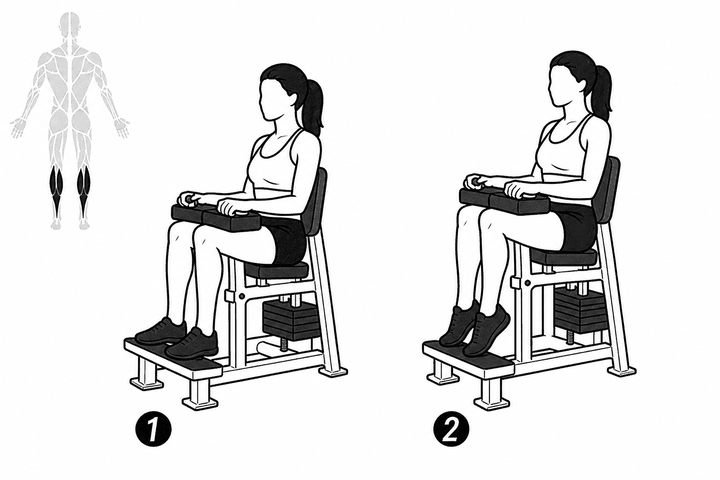
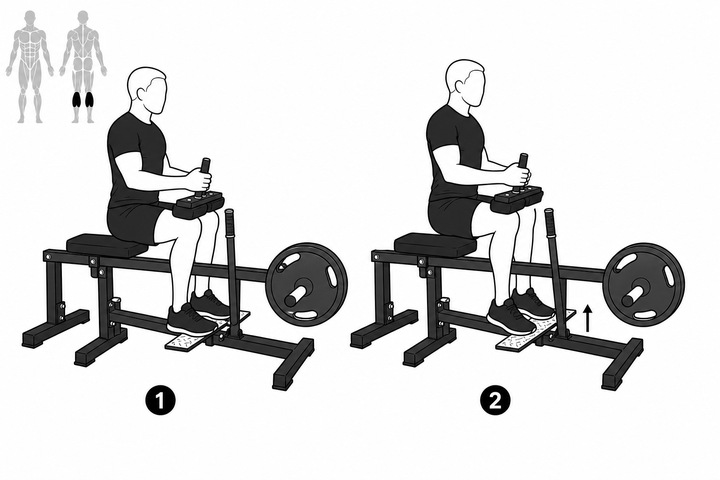
Mollets assis et presse refaits d'après les vraies machines de la salle ; nouveau squat avant, bras croisés

Changed region(s): [[0.0, 0.0, 0.9778, 0.9375]]

diff --git a/src/data/salle.ts b/src/data/salle.ts
@@ -90,6 +90,33 @@ export const EXERCICES_SALLE: Exercice[] = [
     ],
   },
   {
+    id: 'front-squat',
+    nomFr: 'Squat avant, bras croisés',
+    nomEn: 'Front Squat',
+    zone: 'bas',
+    groupe: 'quadriceps',
+    muscles: 'Quadriceps, fessiers, gainage, haut du dos',
+    musclesPrincipaux: ['quadriceps', 'fessiers'],
+    musclesSecondaires: ['abdominaux', 'lombaires'],
+    materiel: 'salle',
+    pattern: 'squat',
+    niveauMin: 2,
+    cotes: 'bilateral',
+    unite: 'reps',
+    premierePhase: 'descend',
+    sansPauseEnBas: true,
+    genouAMenager: true,
+    chargeParCote: true,
+    position: 'Debout, barre en haut de la poitrine, avant-bras croisés sur la barre',
+    pointsAttention: [
+      'Barre posée sur les épaules et la poitrine, coudes hauts, bras croisés.',
+      'Pieds largeur d’épaules, genoux dans l’axe des orteils.',
+      'Buste bien droit : le poids devant force à rester haut.',
+      'Descendre jusqu’aux cuisses parallèles, remonter par les talons.',
+    ],
+    interetJjb: 'Jambes et gainage pour se relever sous charge, le buste droit.',
+  },
+  {
     id: 'traineau',
     nomFr: 'Traîneau : pousser, puis tirer',
     nomEn: 'Sled Push and Pull',

diff --git a/src/utils/muscles.test.ts b/src/utils/muscles.test.ts
@@ -12,12 +12,12 @@ import {
 const MUSCULATION = EXERCICES.filter((e) => (e.famille ?? 'musculation') === 'musculation');
 
 describe('lecture des planches anatomiques', () => {
-  it('les 157 exercices chargés ont au moins un muscle principal', () => {
+  it('les 158 exercices chargés ont au moins un muscle principal', () => {
     // 77 aux haltères, 68 au kettlebell, 7 machines de la salle (la machine à
     // mollets assis depuis le 13 octobre 2026) et le sac de sable de la
     // finale, 4 au poids du corps (le Superman sans poids, la planche de
     // Copenhague, la planche et la planche latérale).
-    expect(MUSCULATION).toHaveLength(157);
+    expect(MUSCULATION).toHaveLength(158);
     const sans = MUSCULATION.filter((e) => (e.musclesPrincipaux ?? []).length === 0);
     expect(sans.map((e) => e.id)).toEqual([]);
   });

diff --git a/src/data/exercices.test.ts b/src/data/exercices.test.ts
@@ -238,10 +238,10 @@ describe('où se tient l’arrêt du tempo', () => {
 });
 
 describe('machines de la salle', () => {
-  it('compte sept machines et le sac de sable de la finale, chacun avec son dessin', () => {
+  it('compte sept machines, le squat avant et le sac de sable de la finale, chacun avec son dessin', () => {
     const machines = EXERCICES.filter((e) => e.materiel === 'salle').map((e) => e.id);
     expect(machines).toEqual([
-      'trap-bar-deadlift', 'leg-press', 'hack-squat', 'traineau', 'leg-extension-machine', 'leg-curl-machine',
+      'trap-bar-deadlift', 'leg-press', 'hack-squat', 'front-squat', 'traineau', 'leg-extension-machine', 'leg-curl-machine',
       'seated-calf-raise', 'sandbag-carry',
     ]);
     for (const id of machines) expect(FICHIERS.has(`${id}.png`), id).toBe(true);

diff --git a/src/utils/charges.test.ts b/src/utils/charges.test.ts
@@ -175,9 +175,9 @@ describe('le bug du 13 octobre 2026 : les 70 % qui collent, sans douleur', () =>
 });
 
 describe('de chaque côté', () => {
-  it('la trap bar, la presse et le hack squat se chargent des deux côtés, et eux seuls', () => {
+  it('la trap bar, la presse, le hack squat et le squat avant se chargent des deux côtés, et eux seuls', () => {
     const parCote = EXERCICES.filter((exercice) => exercice.chargeParCote).map((exercice) => exercice.id);
-    expect(parCote.sort()).toEqual(['hack-squat', 'leg-press', 'trap-bar-deadlift']);
+    expect(parCote.sort()).toEqual(['front-squat', 'hack-squat', 'leg-press', 'trap-bar-deadlift']);
   });
 
   it('« soit 35 lb de chaque côté » : la moitié des disques', () => {

diff --git a/src/utils/programmeMois.test.ts b/src/utils/programmeMois.test.ts
@@ -2121,7 +2121,7 @@ describe('les précautions : arrêt en bas', () => {
     'single-leg-deadlift-db', 'woodchop', 'kb-wood-chop',
   ];
   const POUR_LES_GENOUX = [
-    'squat', 'goblet-squat', 'kb-goblet-squat', 'sumo-squat', 'thruster', 'kb-thruster', 'hack-squat', 'leg-press',
+    'squat', 'goblet-squat', 'kb-goblet-squat', 'sumo-squat', 'thruster', 'kb-thruster', 'hack-squat', 'leg-press', 'front-squat',
     'reverse-lunge', 'kb-lunge', 'elevated-reverse-lunge', 'step-up', 'side-lunge', 'kb-side-lunge', 'curtsy-lunge',
     'kb-wall-squat-press', 'kb-lunge-press', 'kb-rotating-side-lunge-press', 'leg-extension-machine', 'leg-extension',
     // Les squats et fentes avancés ou mis de côté, qui tenaient encore en bas :

diff --git a/src/utils/tableauMouvements.test.ts b/src/utils/tableauMouvements.test.ts
@@ -23,7 +23,7 @@ describe('le tableau des mouvements (docs/mouvements.md)', () => {
     expect(TEMPO_TABLEAU).toEqual({ monteeSec: 3, descenteSec: 3, pauseSec: 1 });
     expect(REPS_TABLEAU).toBe(8);
     const exercices = exercicesDuTableau();
-    expect(exercices).toHaveLength(157);
+    expect(exercices).toHaveLength(158);
     const tableau = tableauDesMouvements();
     for (const exercice of exercices) {
       expect(tableau.match(new RegExp(`^\\| \`${exercice.id}\` \\|`, 'gm')), exercice.id).toHaveLength(1);

diff --git a/src/data/exercices.ts b/src/data/exercices.ts
@@ -2017,7 +2017,7 @@ const IMAGES_INTEGREES: Record<string, string> | undefined = (
 /** Version des vignettes : à changer quand des images sont redécoupées. Le
  *  site les fait garder une semaine en cache ; sans elle, les téléphones
  *  montreraient encore les anciennes. */
-const VERSION_IMAGES = 6;
+const VERSION_IMAGES = 7;
 
 /** Chemin public d'une vignette d'exercice (respecte la base Vite). */
 export const cheminImage = (exerciceId: string): string =>

diff --git a/docs/mouvements.md b/docs/mouvements.md
@@ -35,7 +35,7 @@ Tous les autres montent et descendent : le tempo est leur geste, on le garde.
 
 ## Le métronome, exercice par exercice
 
-Ce que dit le métronome de la séance guidée pour chacun des 157 exercices de musculation,
+Ce que dit le métronome de la séance guidée pour chacun des 158 exercices de musculation,
 au tempo par défaut (3 s / 3 s + 1 s), sur une série de 8 répétitions
 (8 de chaque côté pour un exercice unilatéral). Chaque ligne est lue dans le vrai métronome :
 les mots, leurs secondes, le changement de côté et la durée de la série sont ceux de l’application.
@@ -156,7 +156,7 @@ les mots, leurs secondes, le changement de côté et la durée de la série sont
 | `kb-rear-fly` | Oiseau (écarté buste penché) au kettlebell | MONTE 3 s → DESCENDS 3 s | 8 rép. | 48 s | Sans arrêt en bas : le dos. |
 | `superman` | Superman, sans poids | MONTE 3 s → TIENS 1 s → DESCENDS 3 s | 8 rép. | 56 s | Tenu en haut : la position basse est un repos. |
 
-## Bas du corps (40)
+## Bas du corps (41)
 
 | id | Nom | Une répétition | Côtés, sur une série de 8 | Série | Pourquoi |
 |---|---|---|---|---|---|
@@ -196,6 +196,7 @@ les mots, leurs secondes, le changement de côté et la durée de la série sont
 | `trap-bar-deadlift` | Soulevé de terre à la trap bar | MONTE 3 s → DESCENDS 3 s | 8 rép. | 48 s | Sans arrêt en bas : le dos. |
 | `leg-press` | Presse à cuisses | DESCENDS 3 s → MONTE 3 s | 8 rép. | 48 s | Sans arrêt en bas : le genou. Part d’en haut : on descend d’abord. |
 | `hack-squat` | Hack squat | DESCENDS 3 s → MONTE 3 s | 8 rép. | 48 s | Sans arrêt en bas : le genou. Part d’en haut : on descend d’abord. |
+| `front-squat` | Squat avant, bras croisés | DESCENDS 3 s → MONTE 3 s | 8 rép. | 48 s | Sans arrêt en bas : le genou. Part d’en haut : on descend d’abord. |
 | `leg-extension-machine` | Extension des jambes à la machine | MONTE 3 s → DESCENDS 3 s | 8 rép. | 48 s | Sans arrêt en bas : le genou. Ni tenu jambes tendues : sur une machine assise, la rotule y est la plus chargée — les genoux de Big Max (avant : TIENS 1 s jambes tendues). |
 | `leg-curl-machine` | Flexion des jambes couché, à la machine | MONTE 3 s → TIENS 1 s → DESCENDS 3 s | 8 rép. | 56 s | Tenu en haut : la position basse est un repos. |
 | `seated-calf-raise` | Mollets assis, à la machine | MONTE 3 s → DESCENDS 3 s → TIENS 1 s | 8 rép. | 56 s | Tenu en bas, comme le mollet sur une marche : les talons sous la marche, le mollet s’étire sous la charge. |
